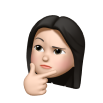
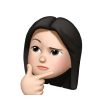
dev 사이트 box margin 수정

Changed region(s): [[0.1748, 0.1456, 0.8447, 0.932]]

diff --git a/src/pages/DeveloperPage.js b/src/pages/DeveloperPage.js
@@ -37,7 +37,7 @@ const BtnToPage = styled(NavLink)`
 function DeveloperPage() {
 
     const imgStyles = {
-        margin: '0.7rem 1rem 0 1rem',
+        margin: '0 1rem 0 1rem',
     }
 
     window.scrollTo(0, 0);
@@ -51,7 +51,7 @@ function DeveloperPage() {
                 <Text>🏠</Text>
                 <Text display='inline-block' top='2.1rem' color='#00462A'>find my Roomie</Text>
                 <Text display='inline-block'>를 만든</Text>
-                <Text top='2.1rem' bottom='5.8rem'>제작자를 소개합니다</Text>
+                <Text top='1rem' bottom='5.8rem'>제작자를 소개합니다</Text>
             </Text>
             <Wrapper>
                 {developers.map((developers, i) => (
@@ -64,6 +64,7 @@ function DeveloperPage() {
                         developer={developers.name}
                         subDesc={developers.subDesc}
                         style={imgStyles}
+                        type={'dev'}
                     />
                 ))}
                 <Text top='27.4rem' fontSize='1.2rem'>Special thanks to...</Text>

diff --git a/src/components/BoxComponent.js b/src/components/BoxComponent.js
@@ -14,6 +14,7 @@ const Wrapper = styled.div`
     display:flex;
     align-items:center;
     margin-left:1rem;
+    margin-top:${props => props.type === 'dev' ? '0.6rem' : ''};
 `
 
 const Img = styled.div`
@@ -56,10 +57,10 @@ const SubDesc = styled.div`
 `
 
 
-function BoxComponent({ src, style, title, color, name, developer, subDesc }) {
+function BoxComponent({ src, style, title, color, name, developer, subDesc, type }) {
     return (
         <Container>
-            <Wrapper>
+            <Wrapper type={type}>
                 <Img><img src={src} style={style} /></Img>
                 <TextWrapper>
                     <Desc>{title}</Desc>
